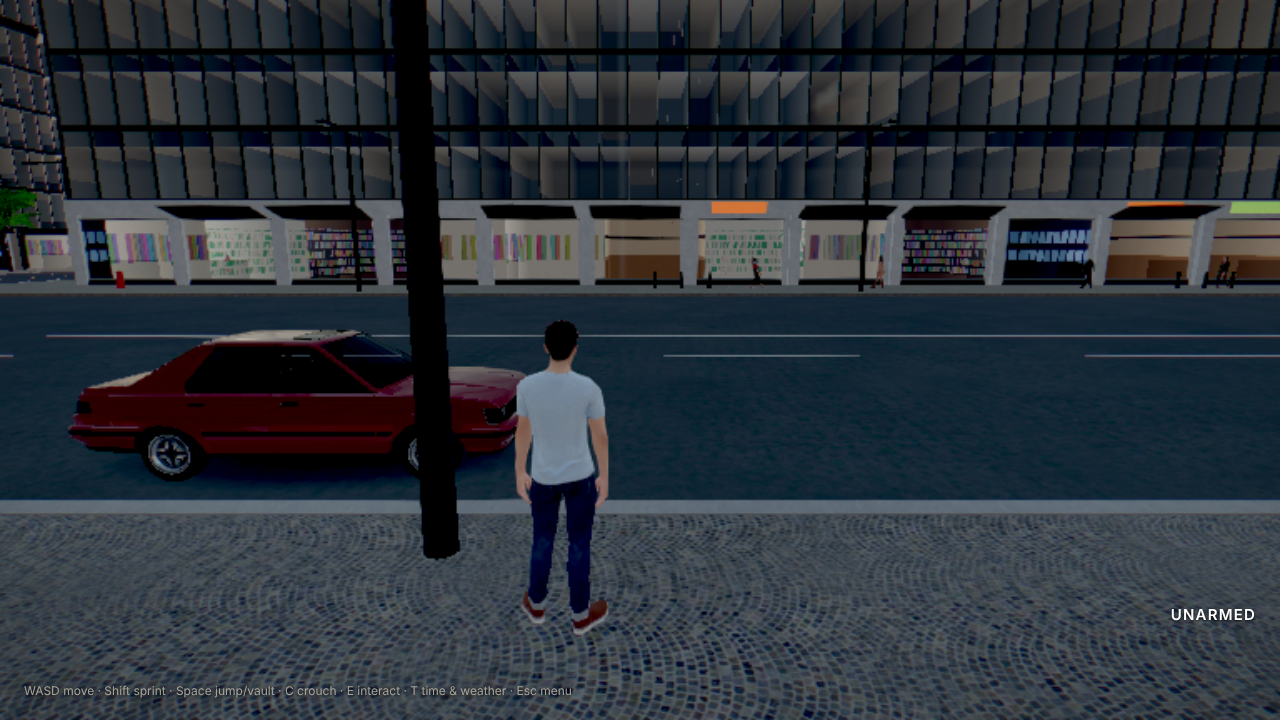
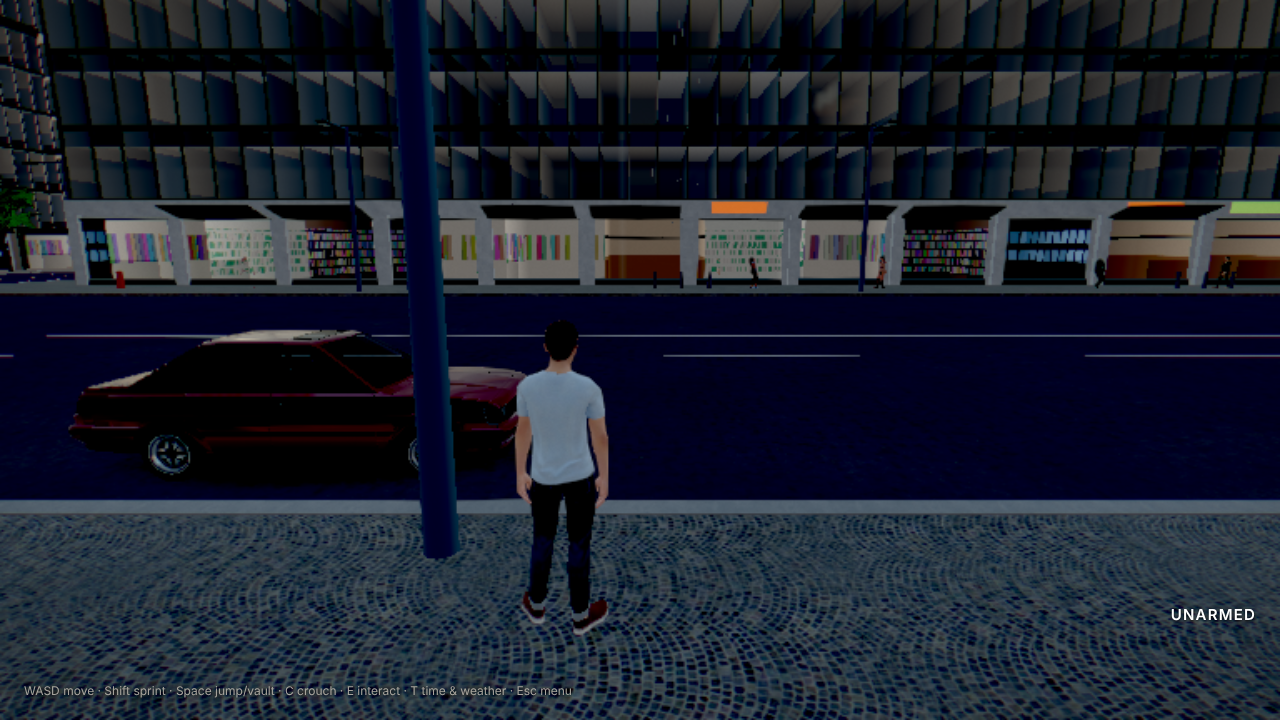
Preview v12 published from 7c3d522: local base64 boot check (Lite default, no script errors), manifest, PLAYTEST note
Claude-Session: https://claude.ai/code/session_018weG8UJ8HJbvPugb3V5uQq

diff --git a/PLAYTEST.md b/PLAYTEST.md
@@ -291,3 +291,8 @@ Same views on every tier at 1280×720 (Downtown golden hour `m3_golden`; Harbour
 - Verified: the Low + Medium look matrix after the fix had 12/12 clean captures on the first try (`shots/look/p2c`), against 2–3 black per run before.
 - On a real GPU the out-of-range reads would more likely have shown as missing or flickering walkers than black screens; same root cause.
 - Wrong turns on the way, for the record: a NaN/Inf sanitize pass before bloom (did not help, removed) and per-pass/uniform probes. Screenshot mode now renders the last 10 frames instead of 4 (kept; harmless).
+
+### Preview version 12 (from pushed commit 7c3d522)
+- Published to the same private URL. Contents: crowd instance-overrun fix (the Medium/High black frames), look batches 1–3 (Harbour quay dressing, water detail and foam, night light pools; painted-steel street poles; less flat daylight).
+- Boot-checked locally from exactly the published 167-file set: base64 mode, fresh profile with no saved tier → **Lite** by default; booted in 126 s on CPU rendering; Harbour loaded; 242 draws; no script errors (one 404 for the browser's automatic /favicon.ico; the page uses favicon.svg). `shots/m10/artifact_boot_check.png`.
+- Read back after publishing: the live page references this build's bundles. The hosted copy needs your sign-in and was not opened from here.
